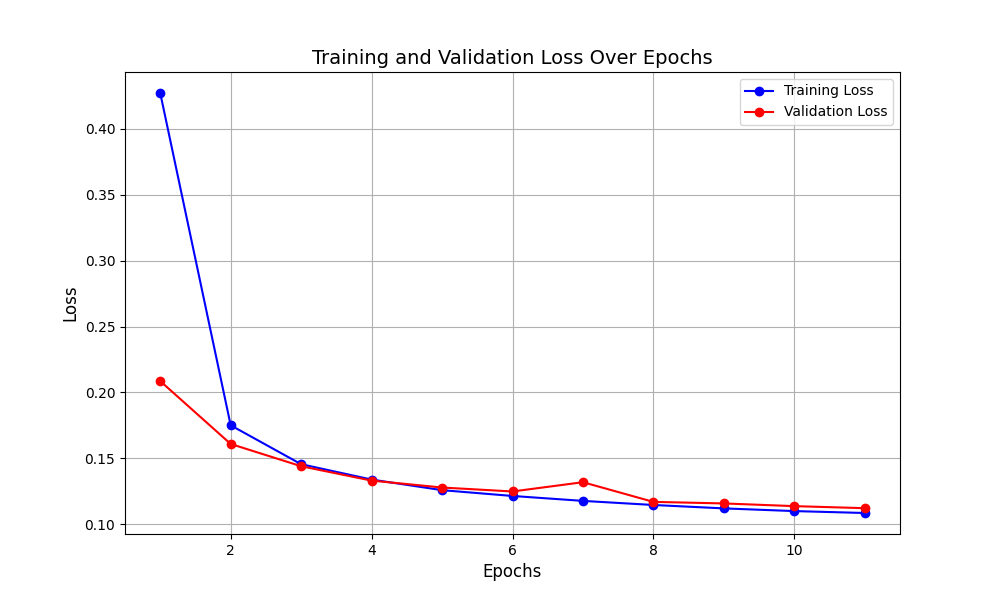
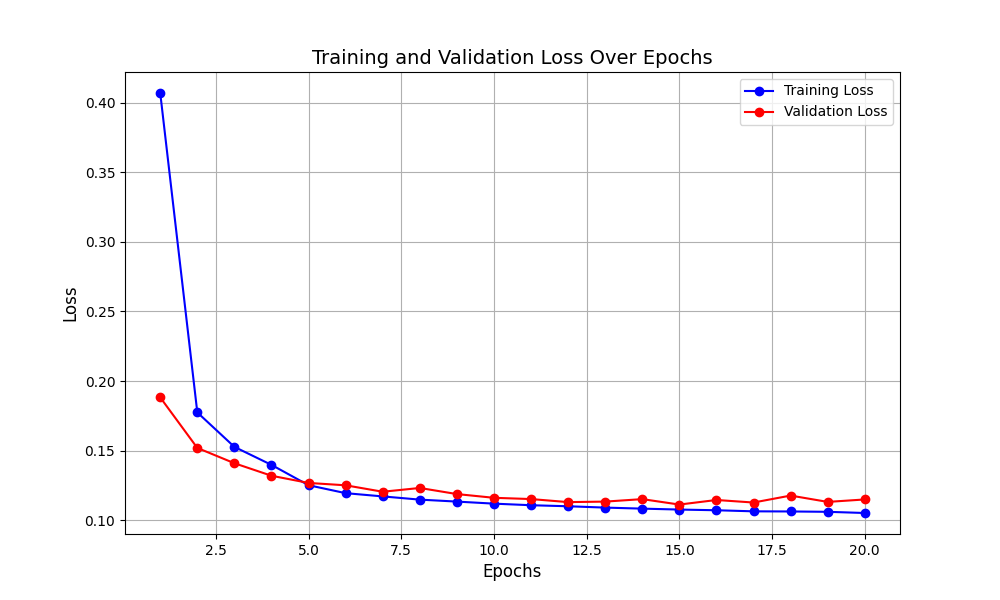
more

diff --git a/train_model.py b/train_model.py
@@ -21,7 +21,7 @@ import joblib
 from model import Net
 
 
-EPOCHS = 11
+EPOCHS = 20
 
 device = torch.device("cuda" if torch.cuda.is_available() else "cpu")
 print(f"Using device: {device}")
